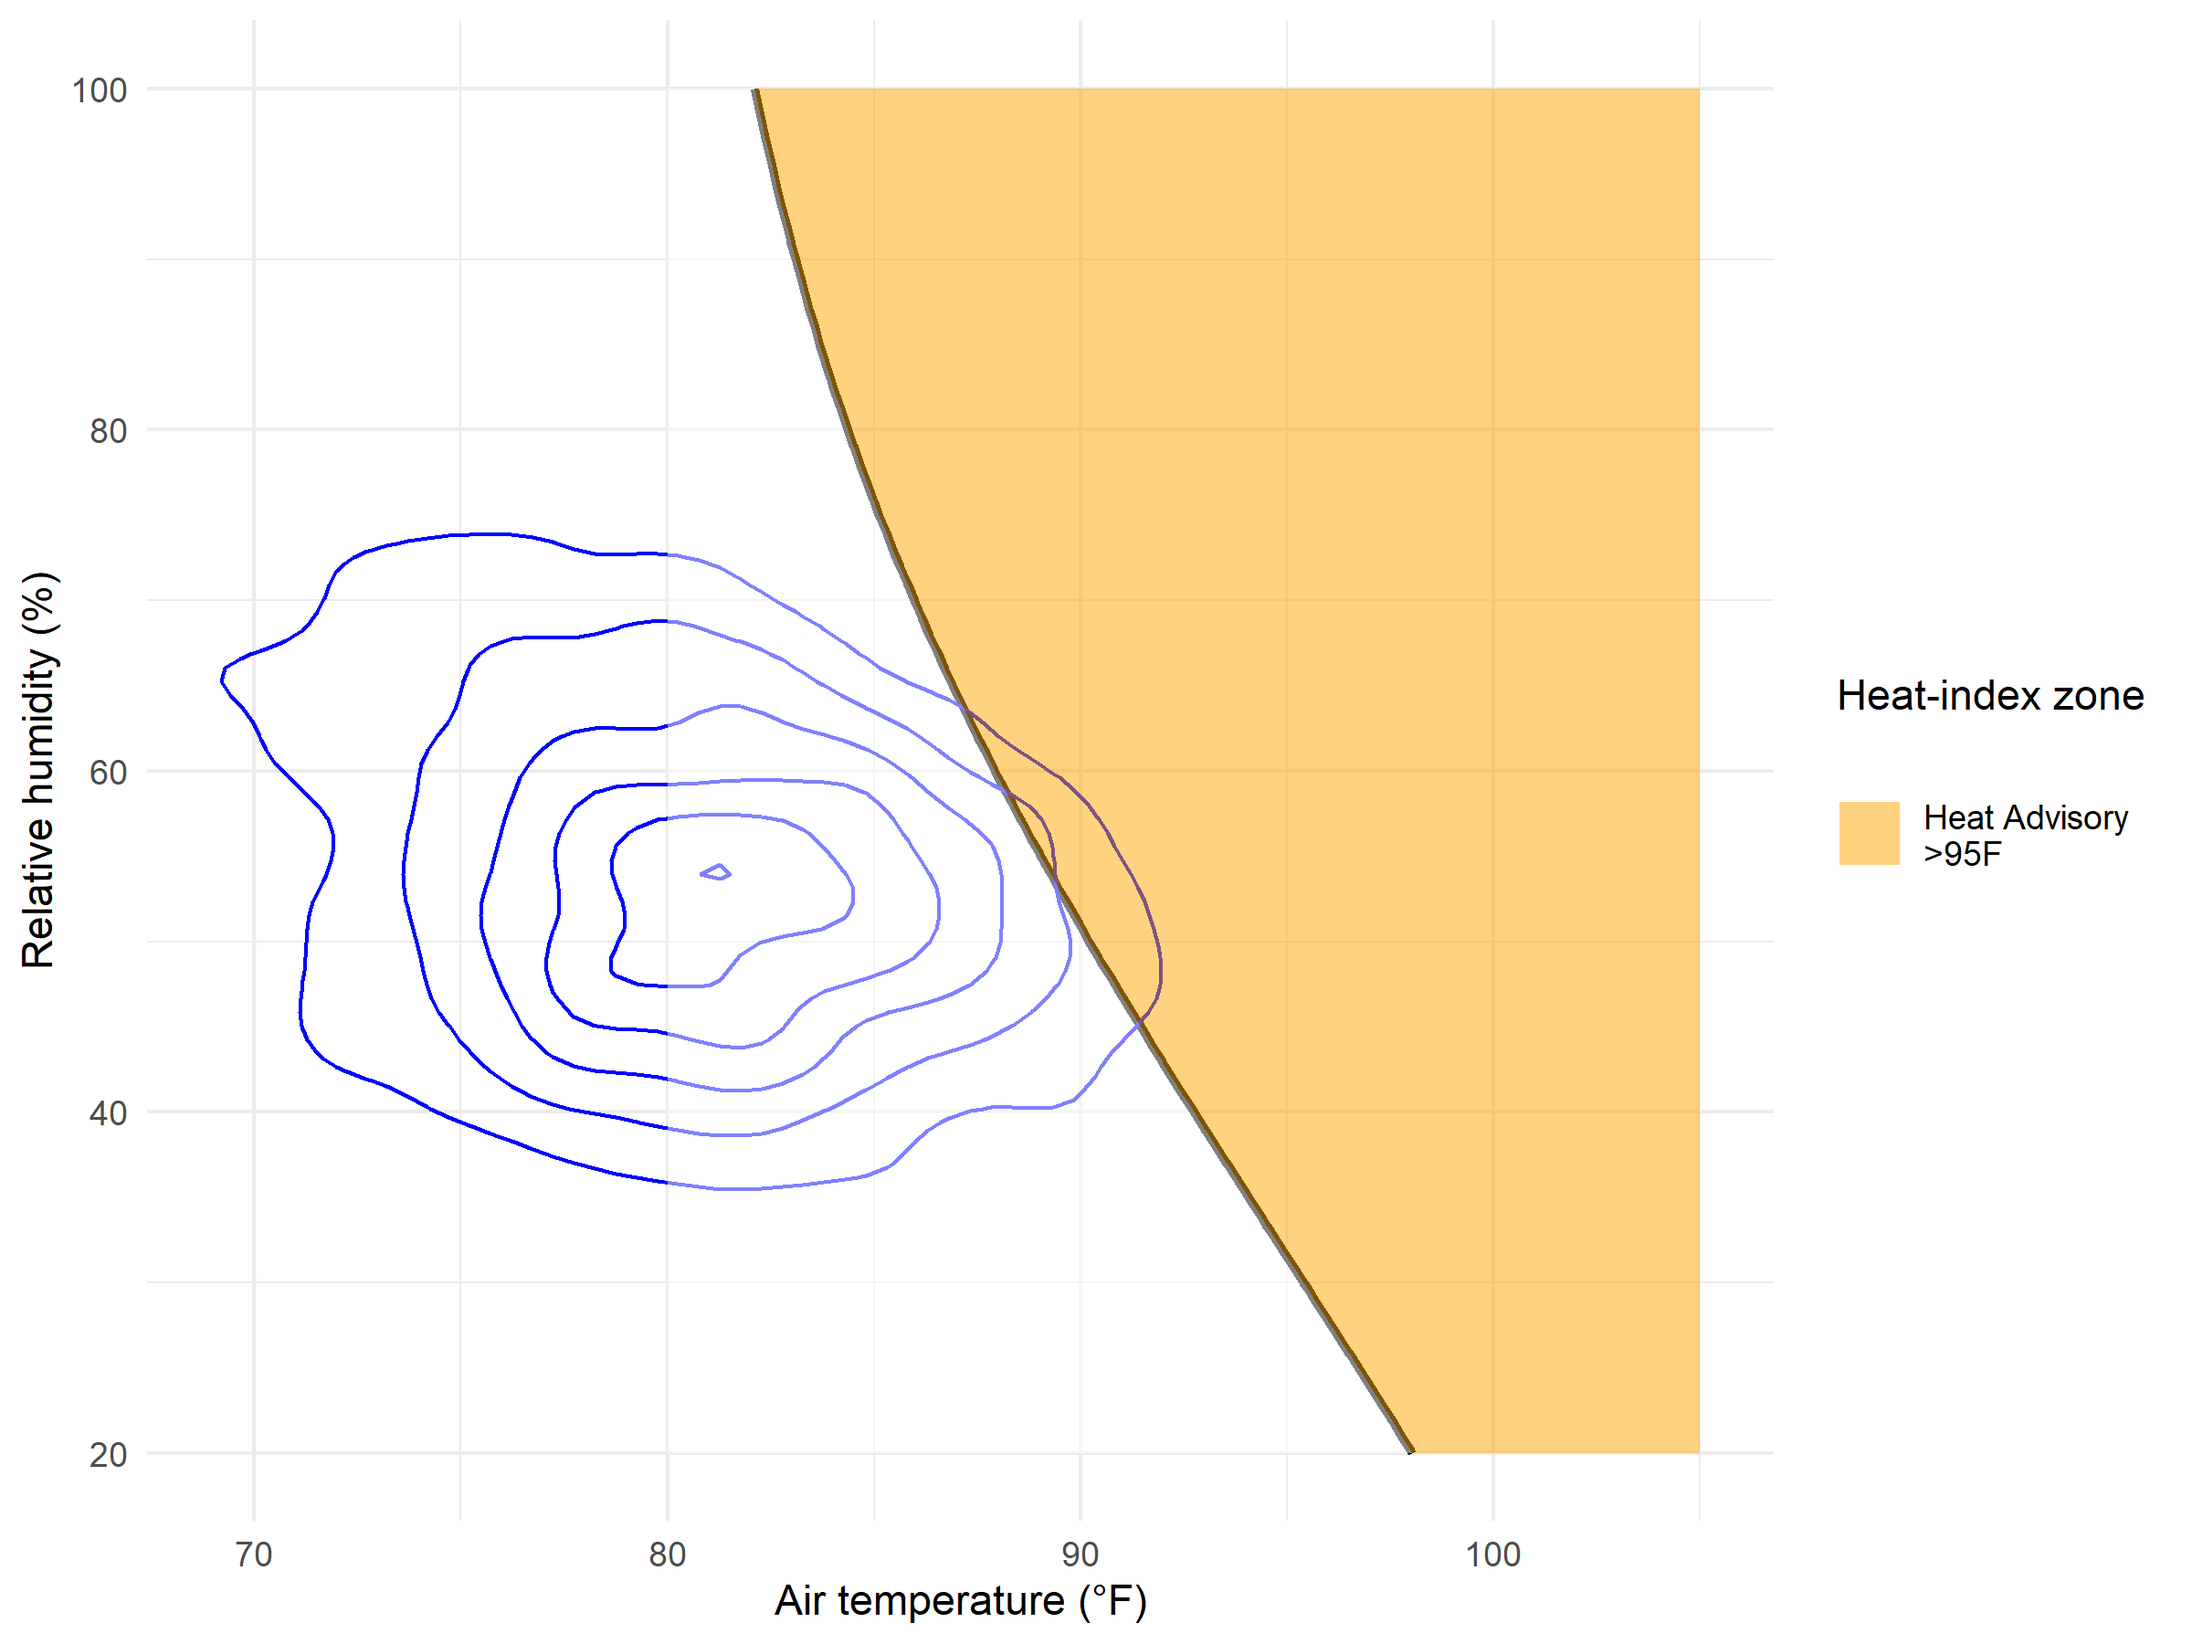
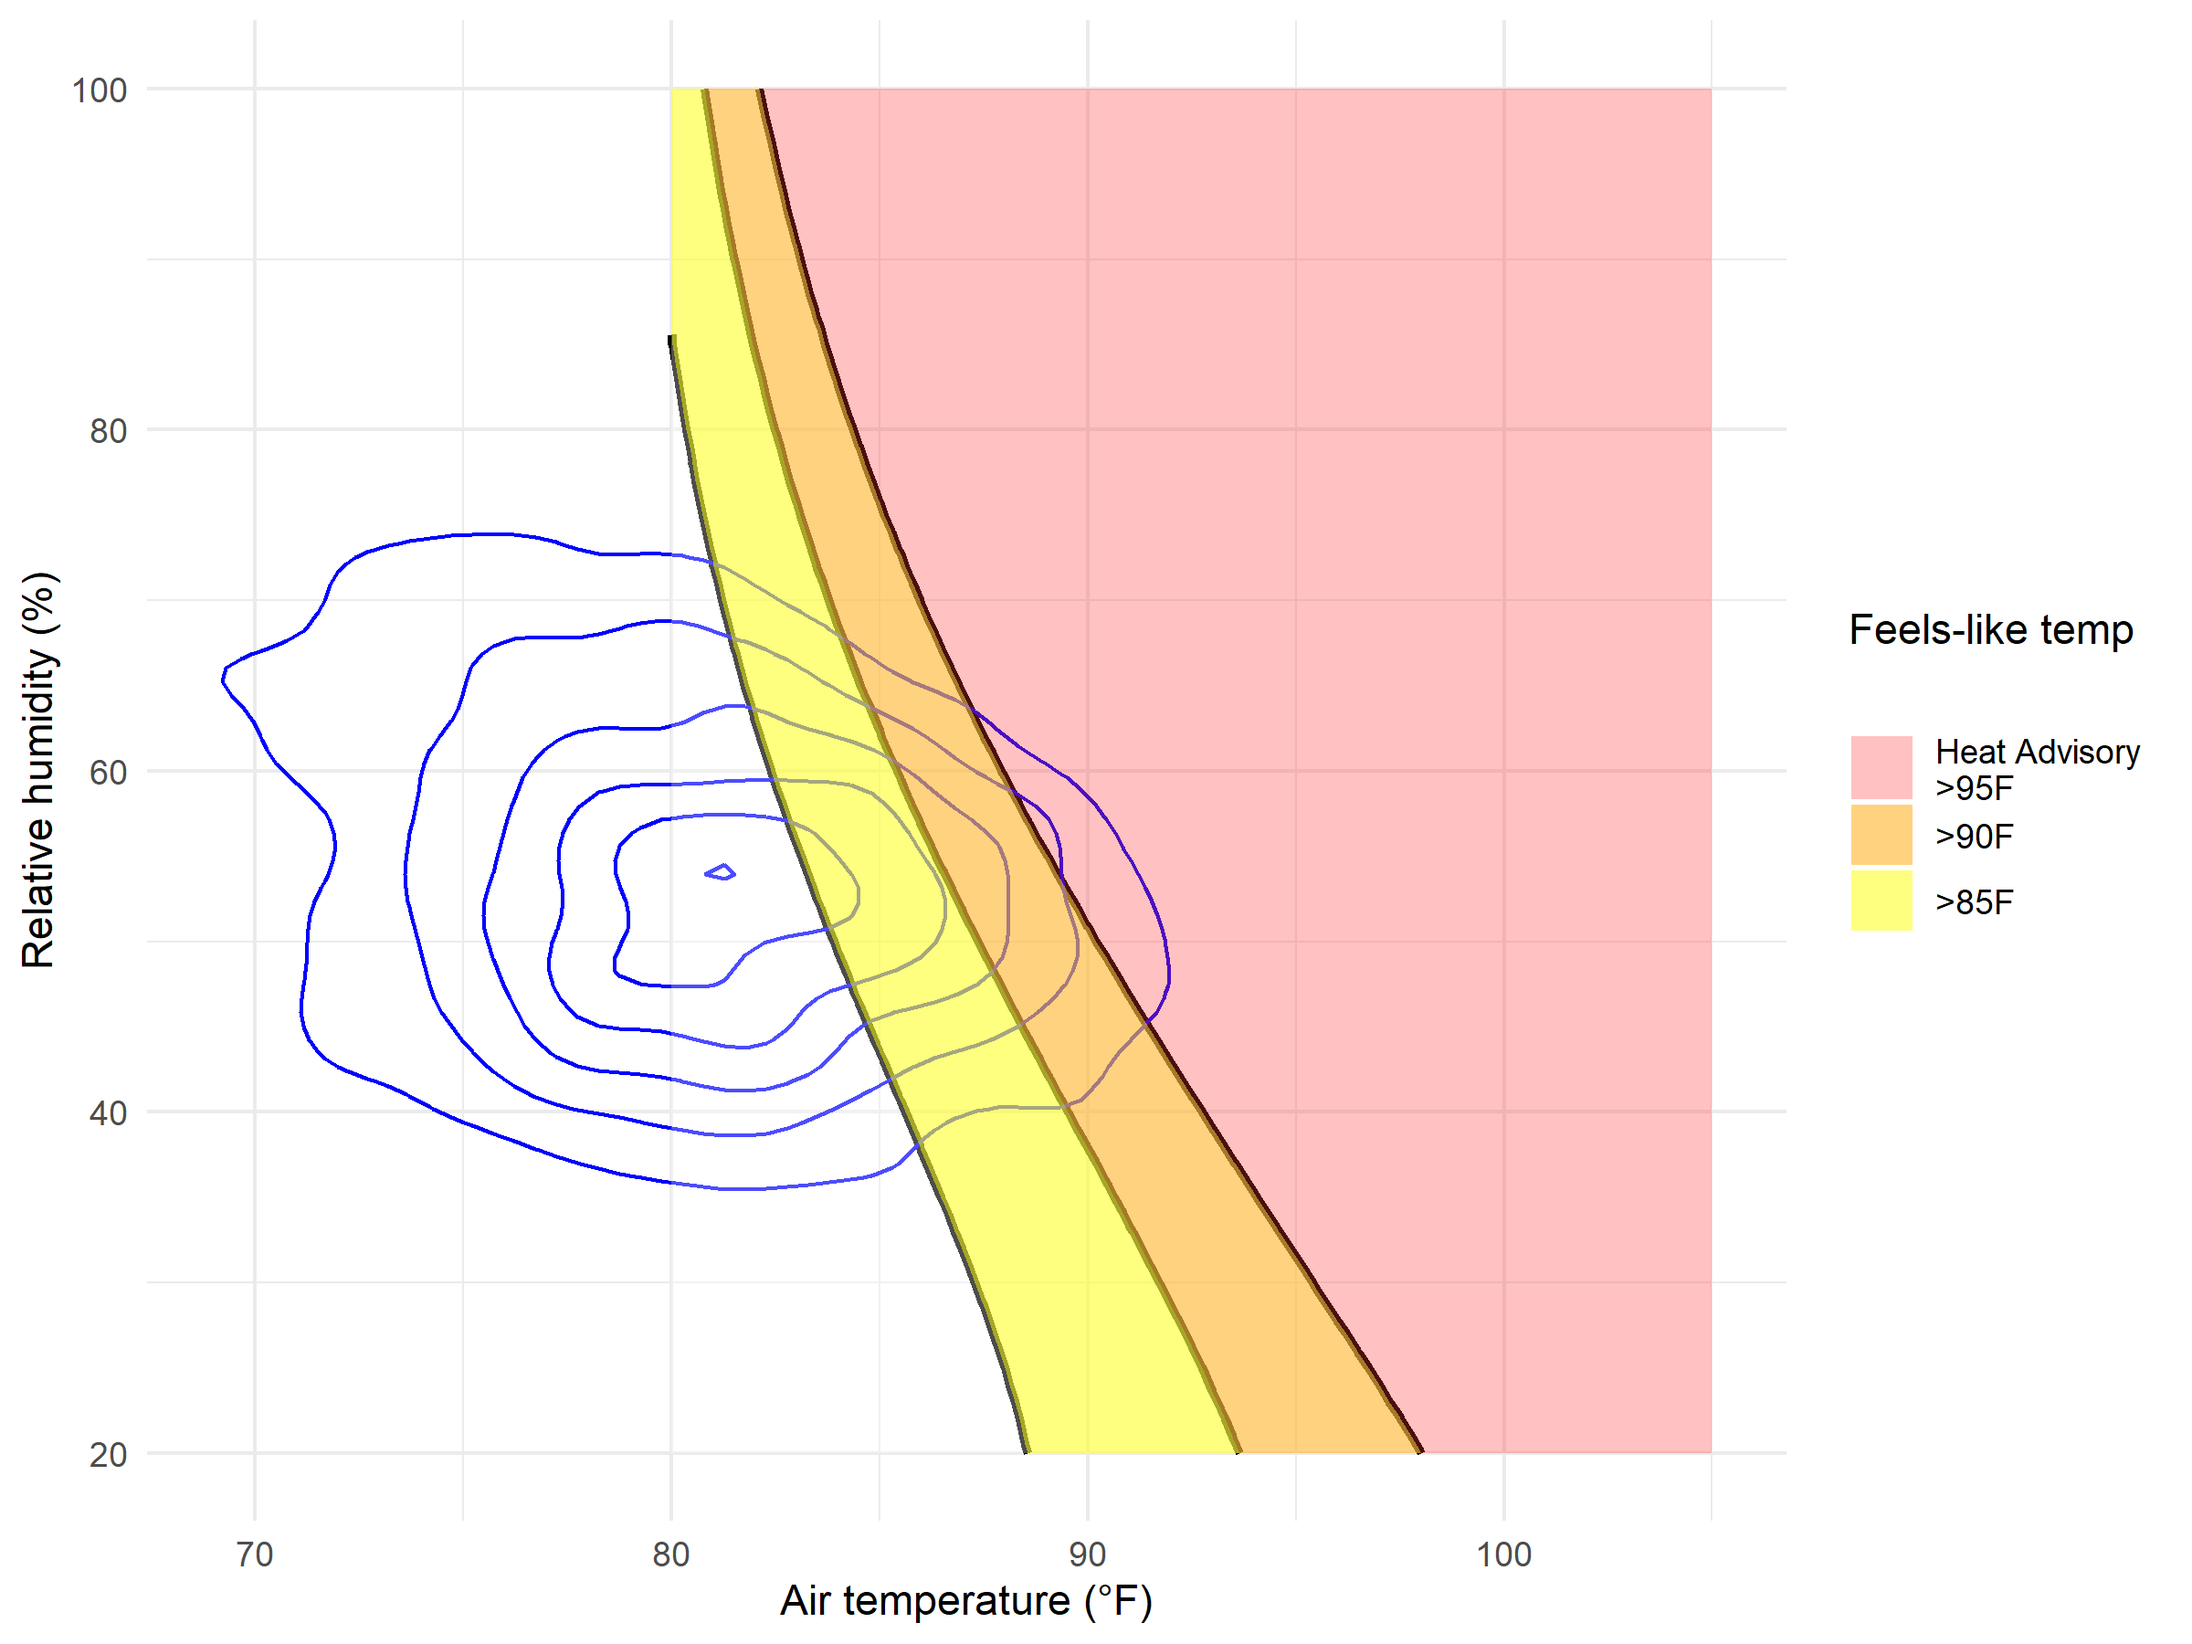
added NCYC temp data

diff --git a/analyses/NCYC_temp_timeseries.md b/analyses/NCYC_temp_timeseries.md
@@ -1,70 +1,74 @@
-Heat Advisory Days since 1980
+Heat Advisory Days since 1980 at NCYC
 ================
 Riley M. Anderson
-March 09, 2026
+March 12, 2026
 
   
 
 - [Overview](#overview)
   - [Summary of Results](#summary-of-results)
+  - [Heat advisory days at NCYC since
+    1980](#heat-advisory-days-at-ncyc-since-1980)
+  - [How hot is it at the clubhouse?](#how-hot-is-it-at-the-clubhouse)
 - [Session Information](#session-information)
 
 ## Overview
 
-The analysis pulls daily weather data from DAYMET (ORNL & NASA) to
-provide estimates of gridded temperature and vapor pressure surfaces for
-the NCYC location since 1980. The objective is to show how many heat
-advisory days (NWS criteria) have occurred each year. Heat index was
-calculated with the Rothfusz regression
+The analysis pulls daily weather data from
+[DAYMET](https://daymet.ornl.gov/) (ORNL & NASA) to provide estimates of
+gridded temperature and vapor pressure surfaces for the **NCYC location
+since 1980**. The objective is to show how many heat advisory days (NWS
+criteria) have occurred each year. Heat index was calculated with the
+Rothfusz regression [(Rothfusz
+1990)](https://www.wpc.ncep.noaa.gov/html/heatindex_equation.shtml).
+
+Throughout the summer, the **NCYC clubhouse regularly reaches
+temperatures above 90°F**. This not only makes for an uncomfortable and
+unwelcoming environment, but it poses a major health risk to those over
+60 years of age and young children [(Kenny et
+al. 2010)](https://www.cmaj.ca/content/182/10/1053). That is, precisely
+the population using the clubhouse at these times.
 
 ### Summary of Results
 
-- 
+- 38 of the last 45 years have had at least one day where a heat
+  advisory would be issued by the National Weather Service.
+
+- The number of heat advisory days/year since 1980 ranged from 0-10 with
+  mean 3.8
+
+- Over the last 45 years, between June 1 and September 15, feels-like
+  temperatures at the clubhouse were above 85°F 26% of the time. 11% of
+  this time was above 90°F and 171 heat advisories (\>95°F) were issued
+  (4%).
+
+- Serious efforts to cool the clubhouse should be considered.
+
+### Heat advisory days at NCYC since 1980
 
 ![](NCYC_temp_timeseries_files/figure-gfm/days_above_90-1.png)<!-- -->
 
 - **Heat advisory days** per year since 1980 at the NCYC clubhouse
   (41.289, -72.368). The national weather service defines heat advisory
-  days when the heat index (feels-like temperature) reaches 95°F for 2
-  hours or more. Since the data source, DAYMET only provides Tmax on a
-  daily basis (not hourly), the data shown may be slightly
-  overestimated.
+  days when the heat index (feels-like temperature) is at or above 95°F
+  for 2 hours or more. Since the data source, DAYMET only provides Tmax
+  on a daily basis (not hourly), the data shown may be slightly
+  overestimated. The best fit hindcast (blue line) was generated with a
+  generalized additive model with thin plate splines and should not be
+  construed as a predictive (forecast) model.
 
-![](NCYC_temp_timeseries_files/figure-gfm/heat_index_figure-1.png)<!-- -->
-
-- The top tenth percentile of warm days for each year since 1980,
-  plotted over the Rothfusz regression that defines *Heat Advisory
-  Days*. Points above the black line are days where a heat advisory
-  would be issued.
+### How hot is it at the clubhouse?
 
 ![](NCYC_temp_timeseries_files/figure-gfm/density_HAD_fig-1.png)<!-- -->
 
-- Density contours of the daily maximum temperature from June 1 to Sep
-  15.
-
-<!-- -->
-
-    ## 
-    ## Family: poisson 
-    ## Link function: log 
-    ## 
-    ## Formula:
-    ## HAD ~ s(year, k = 10)
-    ## 
-    ## Parametric coefficients:
-    ##             Estimate Std. Error z value Pr(>|z|)    
-    ## (Intercept)  1.30865    0.07817   16.74   <2e-16 ***
-    ## ---
-    ## Signif. codes:  0 '***' 0.001 '**' 0.01 '*' 0.05 '.' 0.1 ' ' 1
-    ## 
-    ## Approximate significance of smooth terms:
-    ##           edf Ref.df Chi.sq p-value   
-    ## s(year) 2.269  2.822  10.64 0.00956 **
-    ## ---
-    ## Signif. codes:  0 '***' 0.001 '**' 0.01 '*' 0.05 '.' 0.1 ' ' 1
-    ## 
-    ## R-sq.(adj) =  0.064   Deviance explained = 9.48%
-    ## UBRE = 1.8031  Scale est. = 1         n = 45
+- **Density contours of the daily maximum temperature from June 1 to Sep
+  15.** Blue contours show the density of the raw data with frequency
+  diminishing outwards. Black isoclines overlay the heat index where
+  yellow indicates feels-like temperatures between 85°F and 90°F, orange
+  is 90°F to 95°F, and pink is \>95°F. The national weather service
+  issues heat advisories when the heat index is 95°F or greater for 2
+  hours or more. The NCYC clubhouse regularly experiences feels-like
+  temperatures above 85°F
 
 ## Session Information
 
